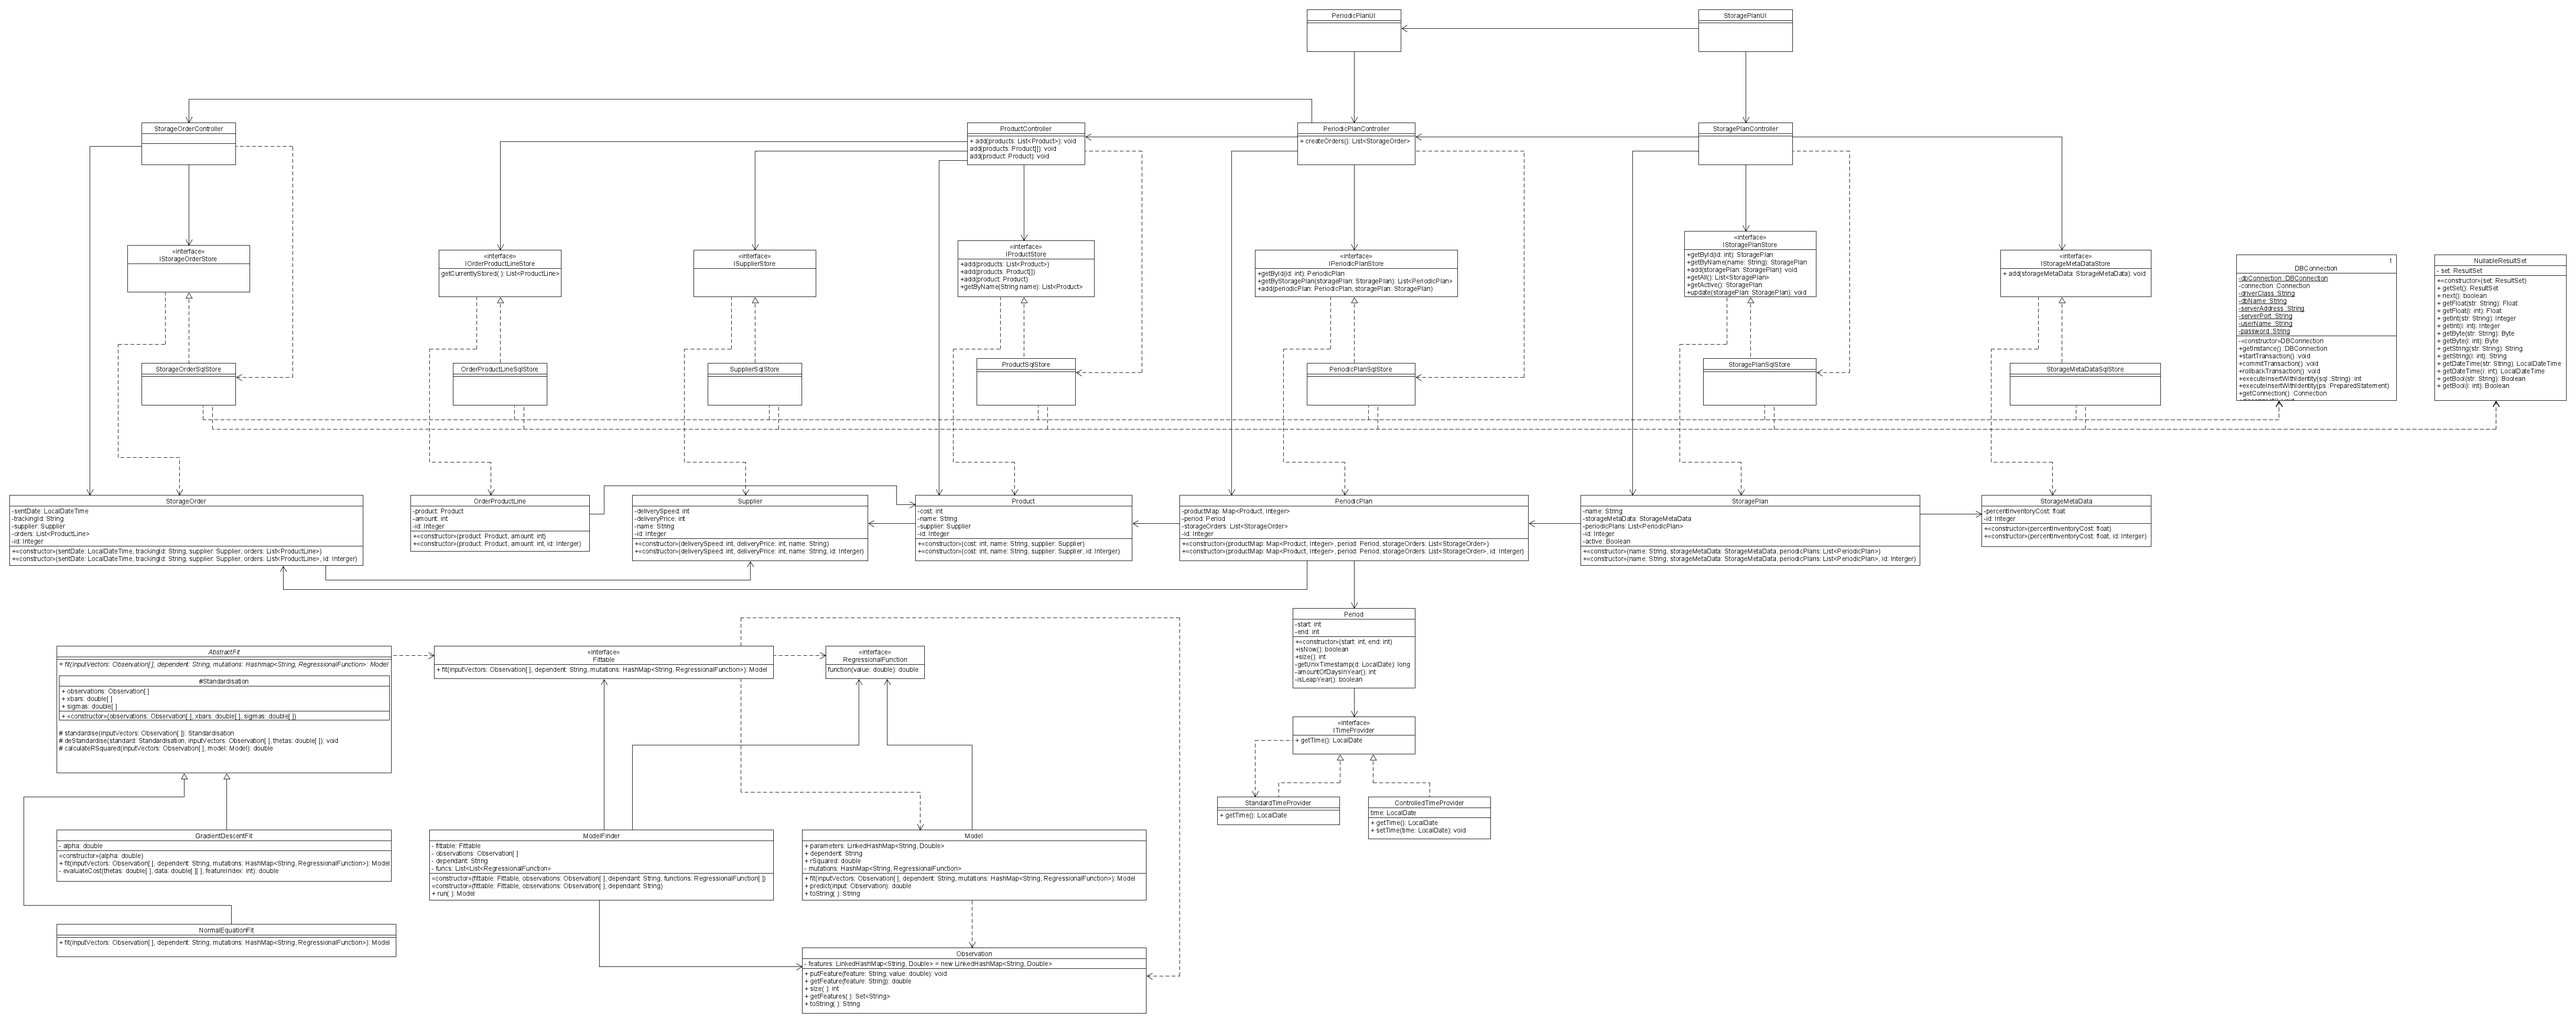
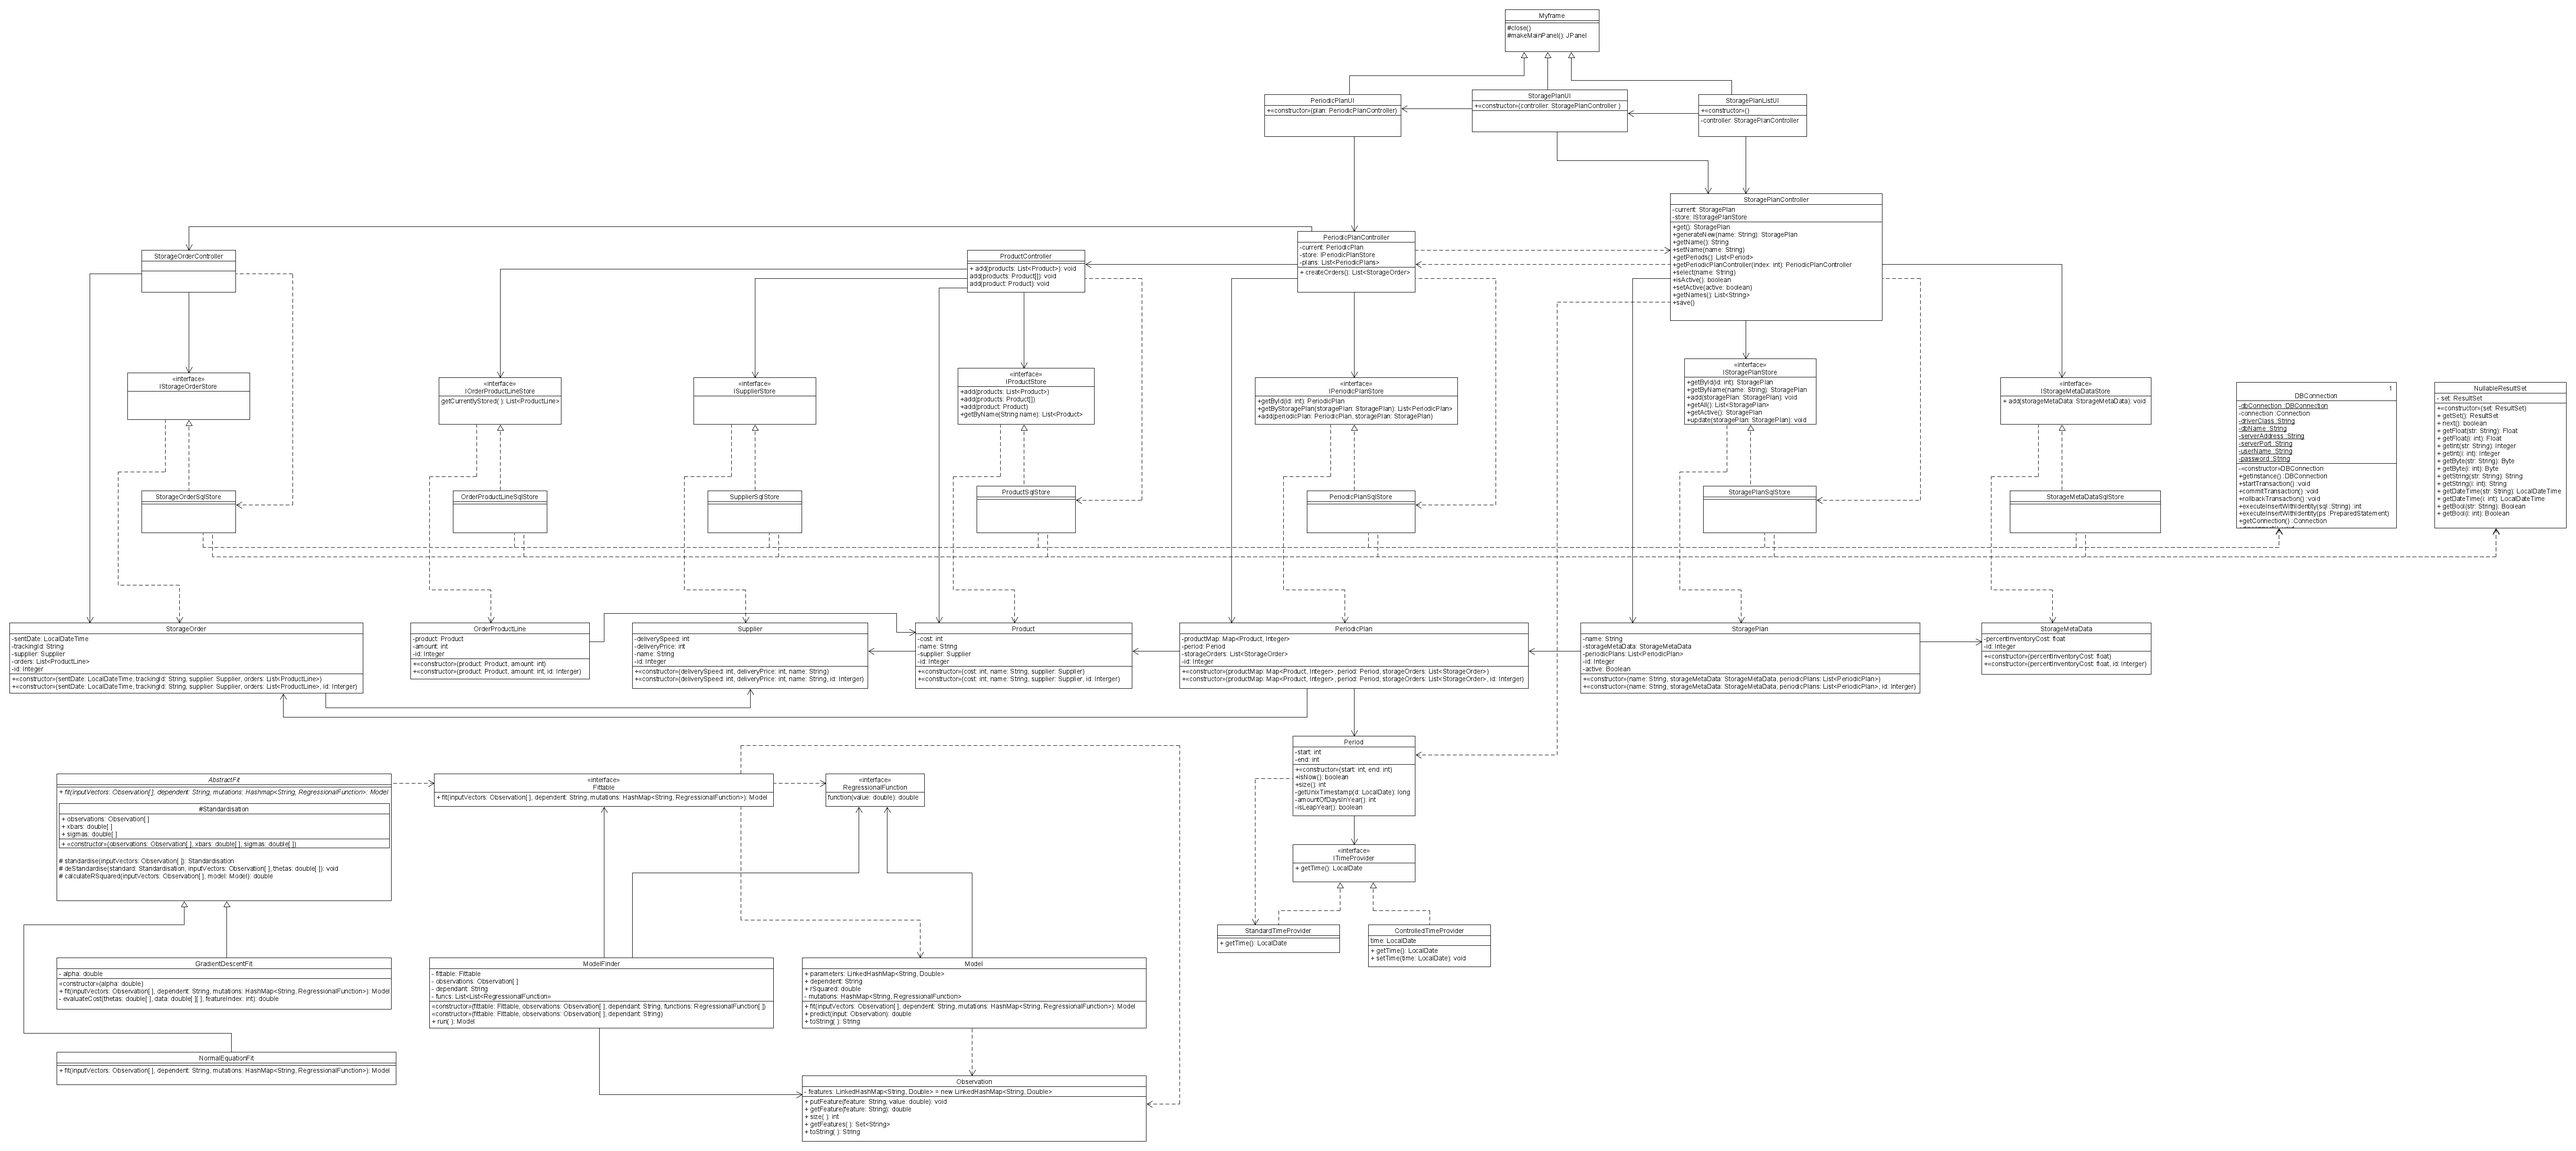
edited chapters business case and design and test

diff --git a/sections/businesscase/businesscase.tex b/sections/businesscase/businesscase.tex
@@ -25,8 +25,10 @@ Hjem-is har 165 ansatte spredt ud over 10 depoter i hele danmark, hver depot har
     \label{fig:local_hierarchy}
 \end{figure}
 Figur \ref{fig:local_hierarchy} viser hierarkiet for Hjem-is, i Aalborg depotet. Her kan det også konkluderes, at hos depotet er det relativ flat, når det gælder strukturen. Under et interview med depot chef Niels Thomas blev det klargjort, at hos Aalborg depot er organisationsstrukturen enkelt og uformel. Der er kun 2 niveauer, depotchef Niels Thomas og så resten af medarbejderne. Afløsere er behandlet på samme måde, som fuldtidsansatte, og har de samme fordele. Oftest kan problemet med en flad organisationskultur betyde, at medarbejderne ikke er sikre på hvem de kan gå til, ift. problemer og skabe usikkerhed og tvivl. Det er ikke tilfældet, på depotet i Aalborg. På Aalborg depotet er det blevet oplyst af medarbejdere, at det et rart sted at være og at man ved hvem man kan gå til. Der er et godt forhold, mellem medarbejdere og chef. Der ses ingen ustabilitet, når det gælder tryghed for jobbet. Ud fra denne struktur, samt de forhold der er mellem medarbejdere og leder kan der laves et kvalificeret gæt til, hvilken kulturtype der er hos Hjem-IS.
+
 \section{Kulturtype}
 Hos depotet i Aalborg, vurderes kulturtypen til at høre ind under “familien”. Selvom, det ikke er helt en hierarkisk opdeling, men magten er stadig lagt på depot chefens skulder. Fokuset er, at glæde medarbejderne bedst muligt og sørge for alle har det godt på jobbet. Det er endda tilladt at tage venner, kærester og familie med ud og køre i bil. Tætte og gode relationer mellem medarbejdere. Chefen er på den anden side ikke bange for at slå med pisken, hvis en medarbejder gør skade på bilen, men hurtigt til at lave sjov med det, efter kort tid. Dog, hvis dette sker er det forventet af medarbejderne selv, at oplyse chefen om, hvis noget er gået galt. Herfra et meget personorienteret depot.
+
 \section{Organisationskulturen hos Hjem-Is}
 Hos depotet i Aalborg, udøves ledelsen med nem kommunikation til alle, specielt nye ansatte. Kommunikationen mellem alle på depotet er nem. f.eks, hvis en afløser gerne vil have fat på chefen, er det nemt at hoppe ind på kontoret, ringe eller skrive en sms til chefens arbejdstelefon. Herunder gives der opdateringer via mails på hvordan tallene ser ud, hvad der bliver solgt bedst og andre relevante informationer. \\
 Hos depotet i Aalborg kommer succes for det meste fra den enkelte sælger. Når en sælger kommer tilbage til depotet med et godt salg, som selvfølgelig afhænger af hvilken sæson sælgeren er ude og sælge is i, får sælgeren også ros. Et typisk succesfuld salg om vinteren ligger omkring de 4000 kr, hvorimod om sommeren kan det være alt fra 8000 kr, som er set som et godt salg. Men en virkelig succesfuld dag ville typisk ramme over 10000 kr. En sælger der kommer hjem, med et meget succesfuldt salg bliver ofte belønnet med en pakke is, eller typisk en personlig sms fra depot chefen, hvori man bliver rost for salget. Det ses også, at chefen ringer ud til sælger, midt i en salgs rute for at rose eller belønne, hvis de har gjort et godt stykke arbejde. Dette medfører god og positiv energi gennem depotet, som bygger over i, at både sælgere og nye ansatte bliver motiveret til at udgøre et godt stykke arbejde. Det må aldrig blive kedeligt ude ved depotet, derfor sørger Niels Thomas for. Der skabes konkurrence mellem sælgerne, ved ofte at udgive belønninger til dagens, ugens eller månedens bedste slag. Der er et godt forhold mellem sælgere ude på depotet, når dagens er ved at komme en en ende, kassen tælles op og alle isbiler er kørt hjem, bliver der hygge-chattet mellem sælgerne, hvori dagens ture ofte bliver diskuteret frem og tilbage. Under oplæringen af afløsere/sælger, forventes det, at afløseren hurtigt lærer systemet at kende, fordi de netop er unge og hurtigt kan adaptere sig til nye systemer. Allerede på første oplærings dag, skal personen være forberedt på at køre isbilen, kende til systemet og have gjort sit første salg, med en mere erfaren medarbejder som overværer den nye medarbejder. Med denne organisationskultur kan det bestemmes at virksomhedens værdier og normer befinder sig meget ovre i glade medarbejdere.
@@ -52,6 +54,7 @@ Magtdistancen ved depotet vurderes, til at være flad. Der er kun 1 overordnet l
 Ud fra at medarbejdere og ledere er godt tilfredse på arbejdspladsen, både i forhold til at udføre opgaverne, samarbejde, individuel præstation, miljø og løn, passer den ønskede kultur godt med den nuværende kultur. Udover dette gør ledelsen også et rigtig godt stykke arbejde i at være et godt eksempel for kulturen til medarbejderne. Da alle på arbejdspladsen har et godt forhold til hinanden, er det et godt tegn på at virksomheden kunne klare ændringer i firmaet uden de store problemer. 
 
 Såfremt Hjem-IS skal have et nyt IT-system skal der også i overvejelserne medtages, at der lige nu bruges indtil flere systemer som kører på forskellige enheder og skal snakke sammen, så hvis mange systemer skulle ændres kunne det give nogle udfordringer.
+
 \section{SWOT analyse}
 \begin{center}
 \begin{tabular}{ |p{200pt}|p{200pt}| }
@@ -69,7 +72,7 @@ Såfremt Hjem-IS skal have et nyt IT-system skal der også i overvejelserne medt
 SWOT-Analysen pointerer hvilke styrker, svagheder, muligheder og trusler virksomheden står overfor. Grunden til at en sådan analyse er nødvendig er, at det hjælper med at optimere de forhindringer virksomheden står overfor i arbejdsmarkedet. Når det er analyseret, kan man udarbejde en vision til virksomheden, hvor de kan behandle de forskellige punkter for at stå stærke og få et overblik over hvad der vil være godt for firmaet at få implementeret i systemet.
 
 \section{PESTEL analyse}
-En PESTEL analyse er et værktøt, brugt til at identificere externe faktorer, som virksomheden står over for \cite{Oxford}. PESTEL står for Political, Economic, Social, Technological, Enviromental og Legal. 
+En PESTEL analyse er et værktøj, brugt til at identificere externe faktorer, som virksomheden står over for \cite{Oxford}. PESTEL står for Political, Economic, Social, Technological, Enviromental og Legal. 
 \subsubsection{Political}
 \begin{itemize}
     \item Det meste af Hjem-IS’ inventar kommer fra Unilever, som er et stort internationalt firma, der leverer is (og mange andre ting) over hele verden

diff --git a/sections/tests/tests.tex b/sections/tests/tests.tex
@@ -1,6 +1,6 @@
 \chapter{Tests}\label{ch:tests}
-Nu hvor koden er desginet og implementeret, kan tests af koden påbegyndes. Test er en del af Unified process modellen, hvori den fremgår både under Inception og Elaboration fasen (det gælder også construction og Transistion, men det ikke relevant for dette project). Test er en nødvendig del af Unified process, ikke fordi det program der bliver lavet ikke må have nogle fejl, men fordi det kan give et godt overblik over hvad der kan forbedres\cite{sestoft2008systematic}. Herunder kan det ses, at White-Box testing, samt Black-box testing benyttes. 
+Nu hvor koden er designet implementationen er forklaret, kan tests af koden påbegyndes. Testning er en del af Unified Process modellen, hvori den fremgår både under Inception og Elaboration fasen (det gælder også construction og Transistion, men det ikke relevant for dette project)\cite{UP}. Test er en nødvendig del af Unified process, ikke fordi programmet ikke må have nogle fejl, men fordi det kan giver et godt overblik over hvilke fejl der opstår i programmet, så det senere kan debugges og forbedres\cite{sestoft2008systematic}. Herunder kan det ses, at White-Box testing, samt Black-box testing benyttes. 
 
- White-box testing er at teste selve programmet. Altså, at alle delene af programmet er blevet udført. Det gode ved White-box testing er, at det både er en god systematisk metode til at opdage fejl, samt også en hurtig og effektiv metode. Måden det foregår på, er at for hver eneste data input set der bruges, skal der også være et forventet output specifiseret. Herefter vil programmet køre med alle data input set og de givende outputs bliver sammenlignet med de forventede\cite{sestoft2008systematic}.
+White-box testing er at teste selve programmet. Altså, at alle delene af programmet er blevet udført. Det gode ved White-box testing er, at det både er en god systematisk metode til at opdage fejl, samt også en hurtig og effektiv metode. Måden det foregår på, er at for hver eneste data input set der bruges, skal der også være et forventet output specifiseret. Herefter vil programmet køre med alle data input set og de givende outputs bliver sammenlignet med de forventede\cite{sestoft2008systematic}.
 
-Black-Box skal sørge for at programmet skal love det problem den er sat til at gøre. Derfor vil det være en god ide, hvis testeren på forehånd har en ide om hvilke problemer det er, for at kunne få programmet til at løse det\cite{sestoft2008systematic}. 
+Black-Box skal sørge for at programmet skal løse det problem, den er sat til at løse. Derfor vil det være en god ide, hvis testeren på forehånd har en ide om hvad et muligt problem kunne være, for at kunne få programmet til at løse det\cite{sestoft2008systematic}. 

diff --git a/sections/design/design.tex b/sections/design/design.tex
@@ -28,4 +28,4 @@ Designklassediagrammet er det tætteste vi kommer på en præcis repræsentation
 \todo{write more stuff about architecture and "smart" ideas}
 Som det kan ses er der brugt en afslappet lagdelt arkitektur, hvori der indgår et UI lag, et controller lag, et model-og-database lag\cite{Larman2004}. UI laget er brugergrænsefladen og tillader brugeren at interagere med programmet. Controller laget håndterer informationsændringer mv. og er de centrale komponenter til at udføre en Use Case. Model-og-database laget indeholder de klasser, der fremgik i domænemodellen \ref{fig:domain_model_2}, deres attributter og metoder - i database-delen sørges der for persistens og organisering af data. 
 For at kunne gennemføre en god lagdelt struktur, kræves der forskellige design mønstre. Det kan ses at DBConnection er en Singleton mønster\cite{Larman2004}, som sørger for at der kun oprettes én instans af DBConnection. DBConnection benyttes af alle \verb|SqlStore| klasserne for at kunne gemme data i databasen. Udover det ses det også, at der er benyttet et DAO mønster\cite{DAO} med alle Controller klasser. Dette ses ud fra at all controllers har en interface til database operationer, og ved forholdet til modelklasserne.
-%superclass pattern
+I forhold til UI, ses det at Myframe er en superklasse, som vil indeholde de tre UI subklasser, så det bliver nemmere at skifte mellem faner i brugergrænsefladen.
